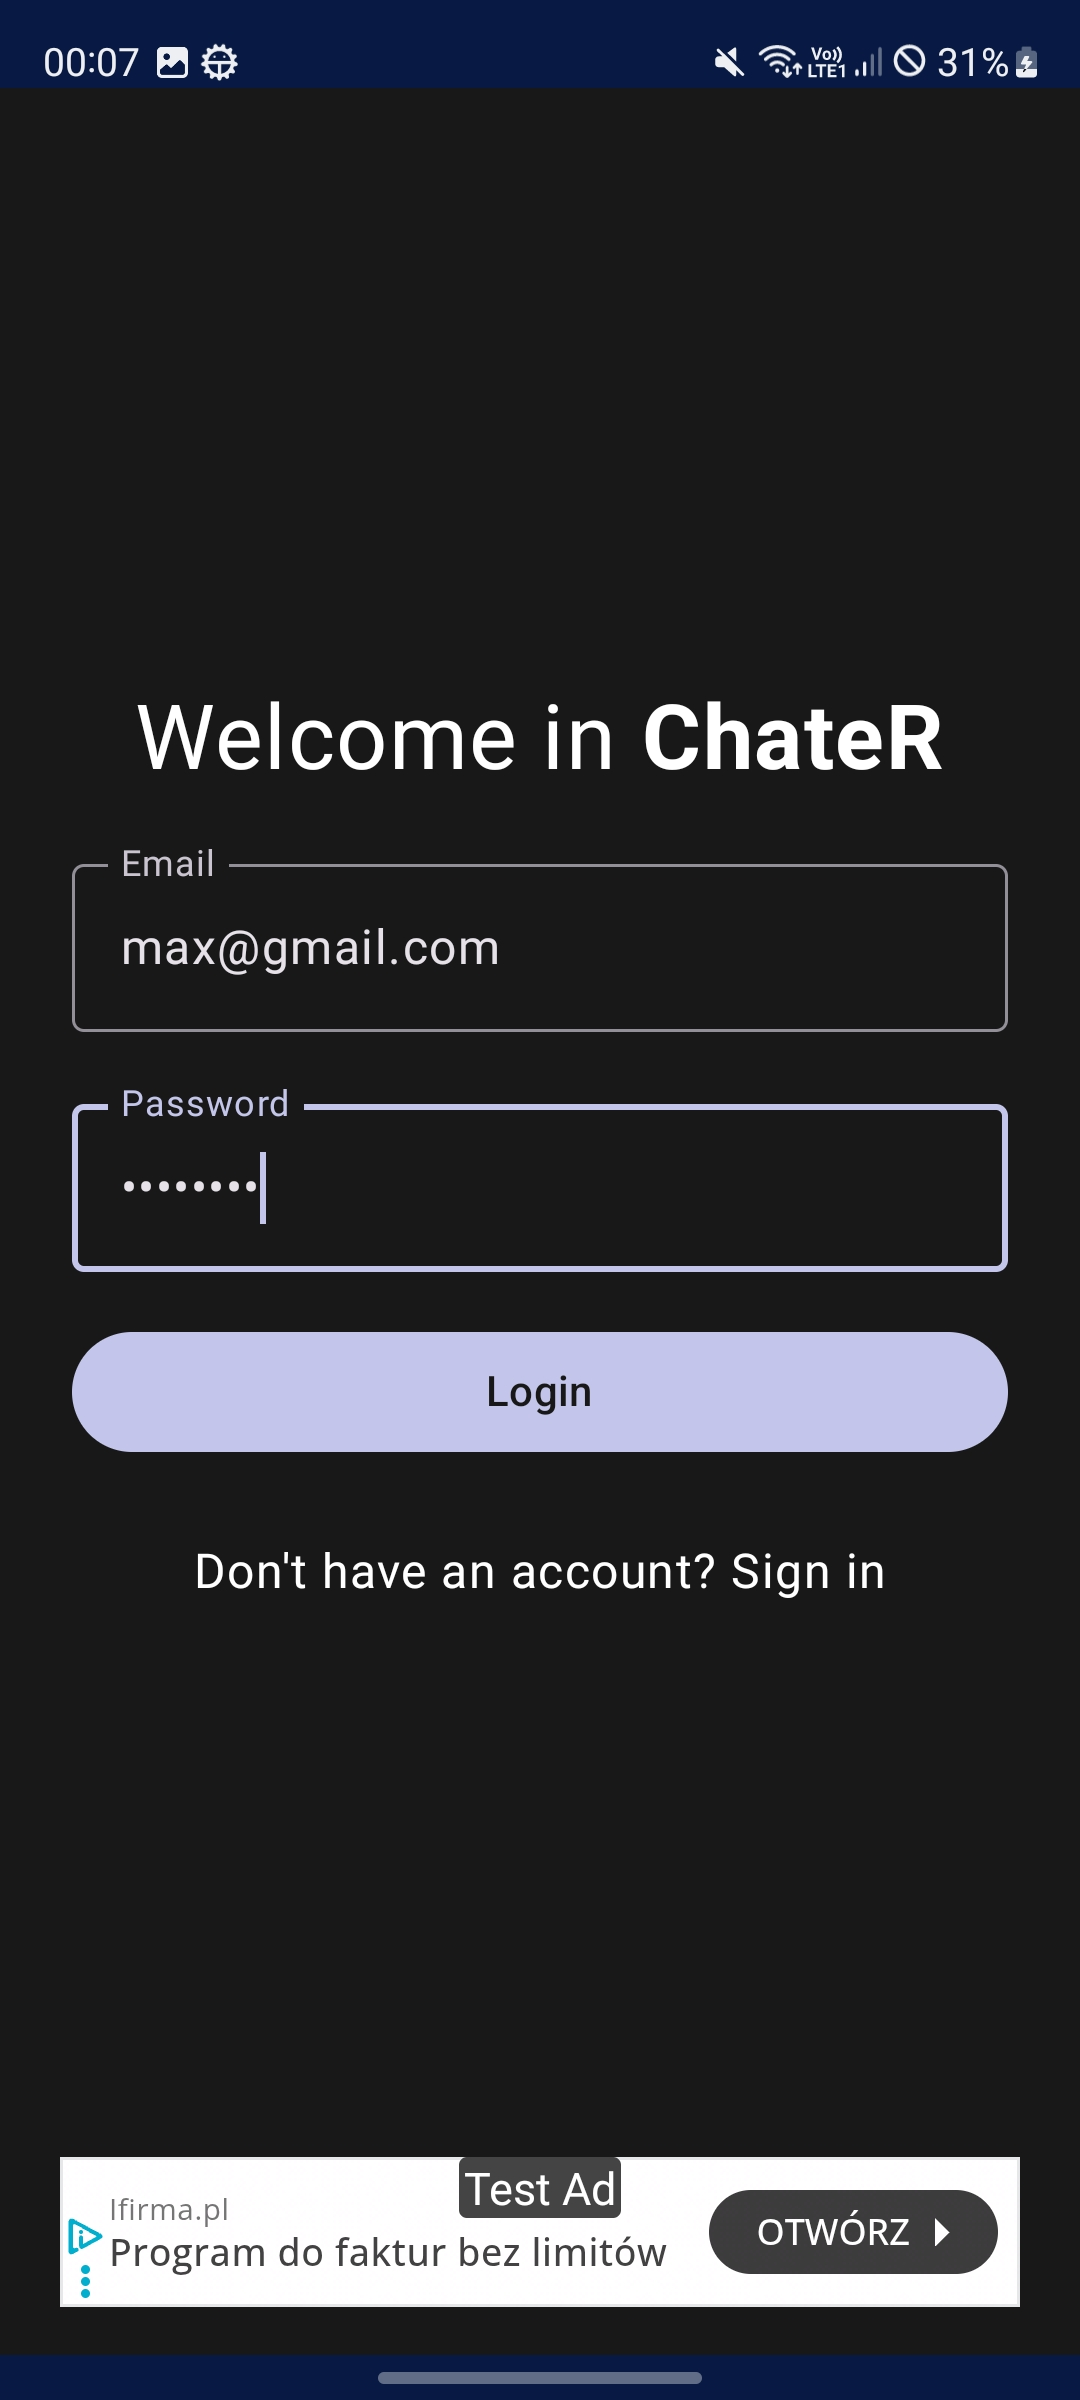
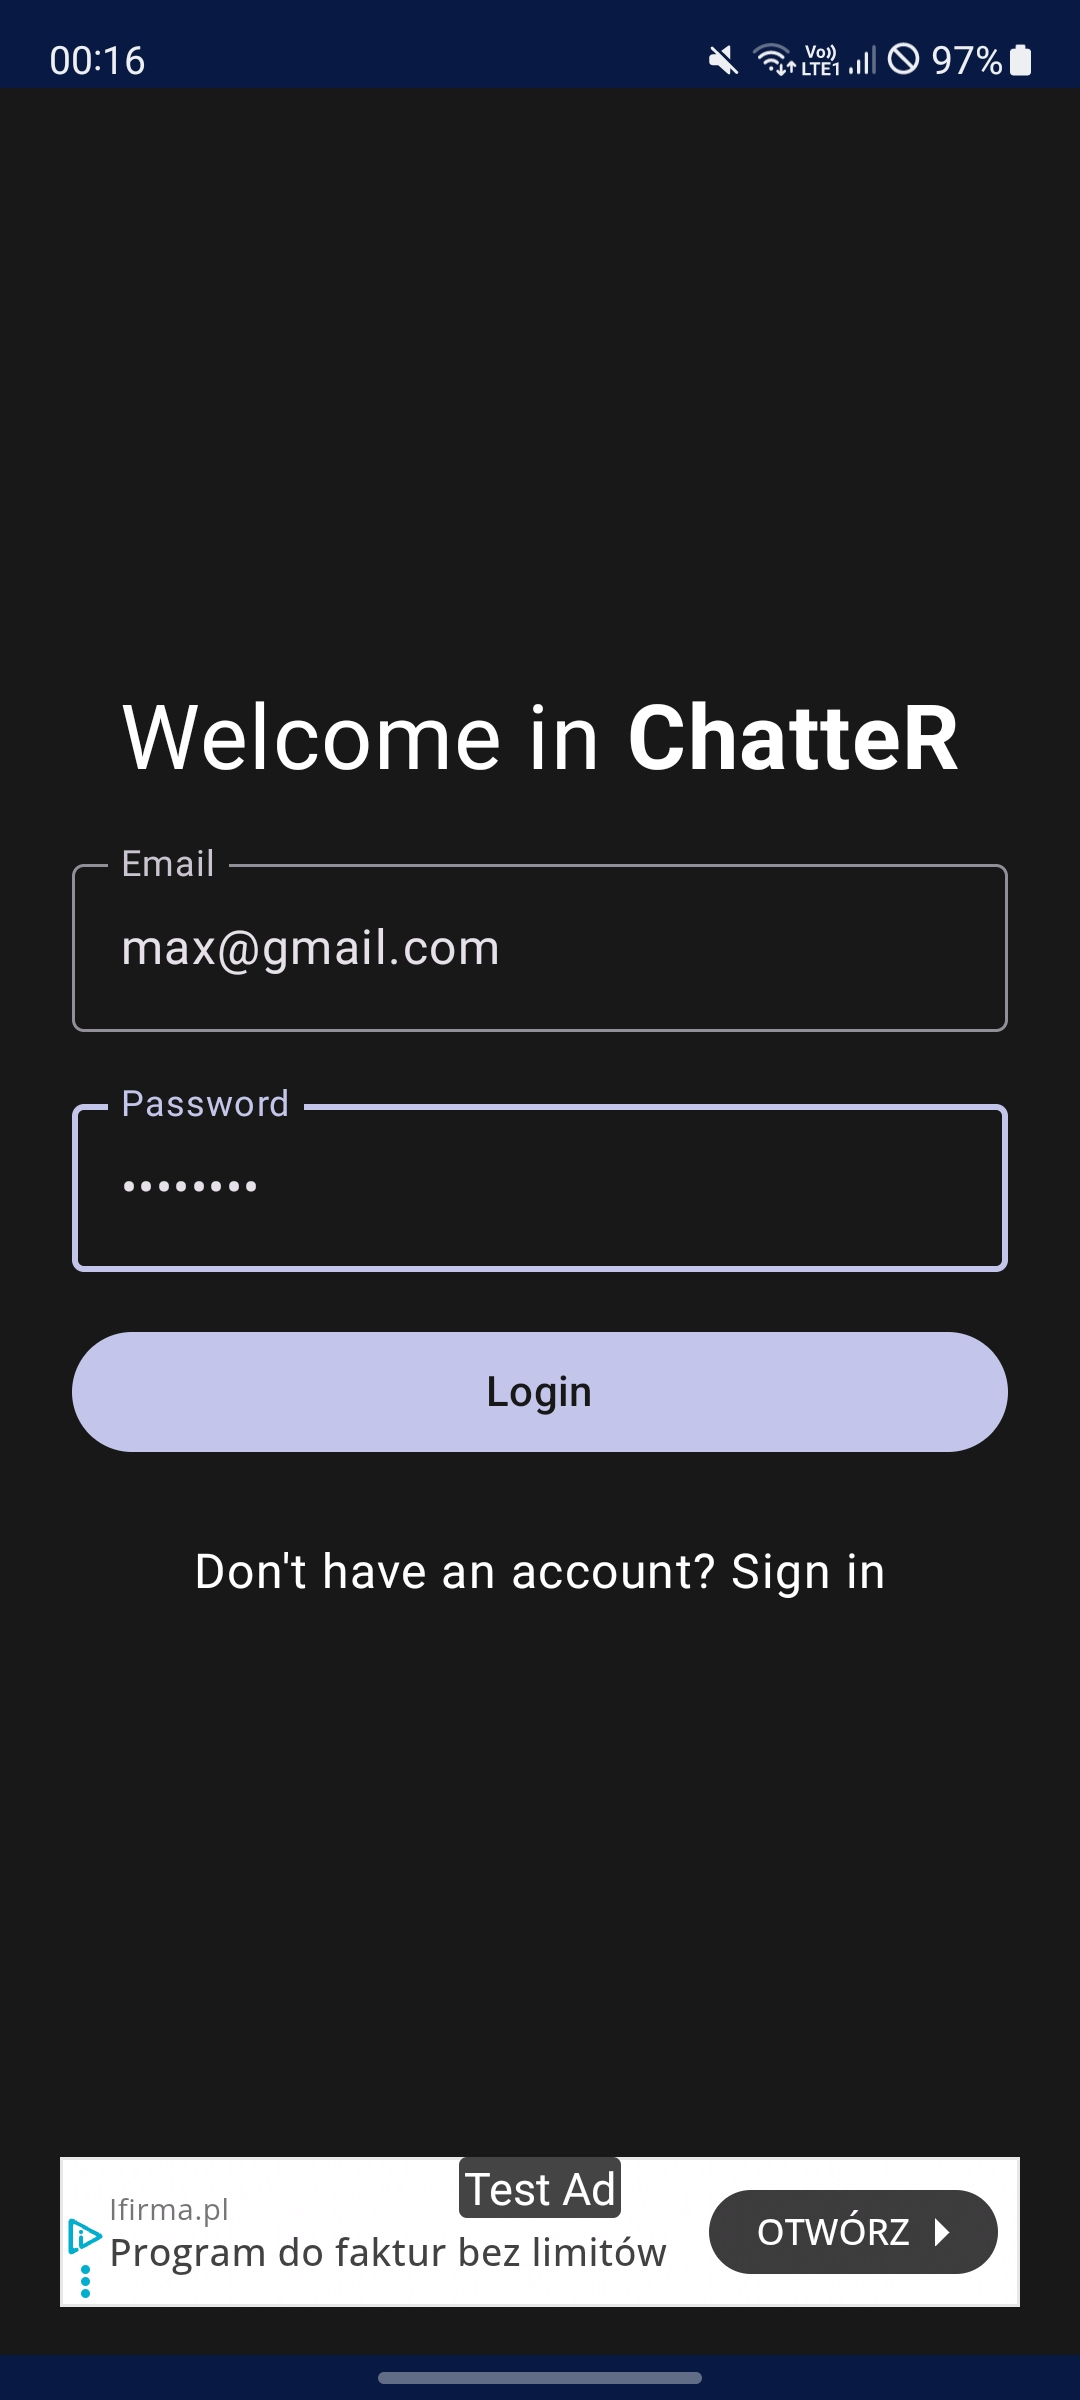
final commit

Changed region(s): [[0.1222, 0.2812, 0.8861, 0.3438], [0.6722, 0.0, 0.9778, 0.0312], [0.0306, 0.0, 0.2139, 0.0312]]

diff --git a/README.md b/README.md
@@ -1,4 +1,4 @@
-# ChateR
+# ChatteR
 Simple kotlin android app for making rooms and chatting   
 Created to showcase my skills in android development
 
@@ -35,3 +35,7 @@ Created to showcase my skills in android development
   <img src="screenshots/screen_5.jpg" alt="Setting Location" width="250"/>
   <img src="screenshots/screen_6.jpg" alt="Map Screen" width="250"/>
 </p>
+
+## Download
+
+[Download ChatteR APK](https://github.com/komodobear/ChatteR-AndroidApp/releases/latest)
